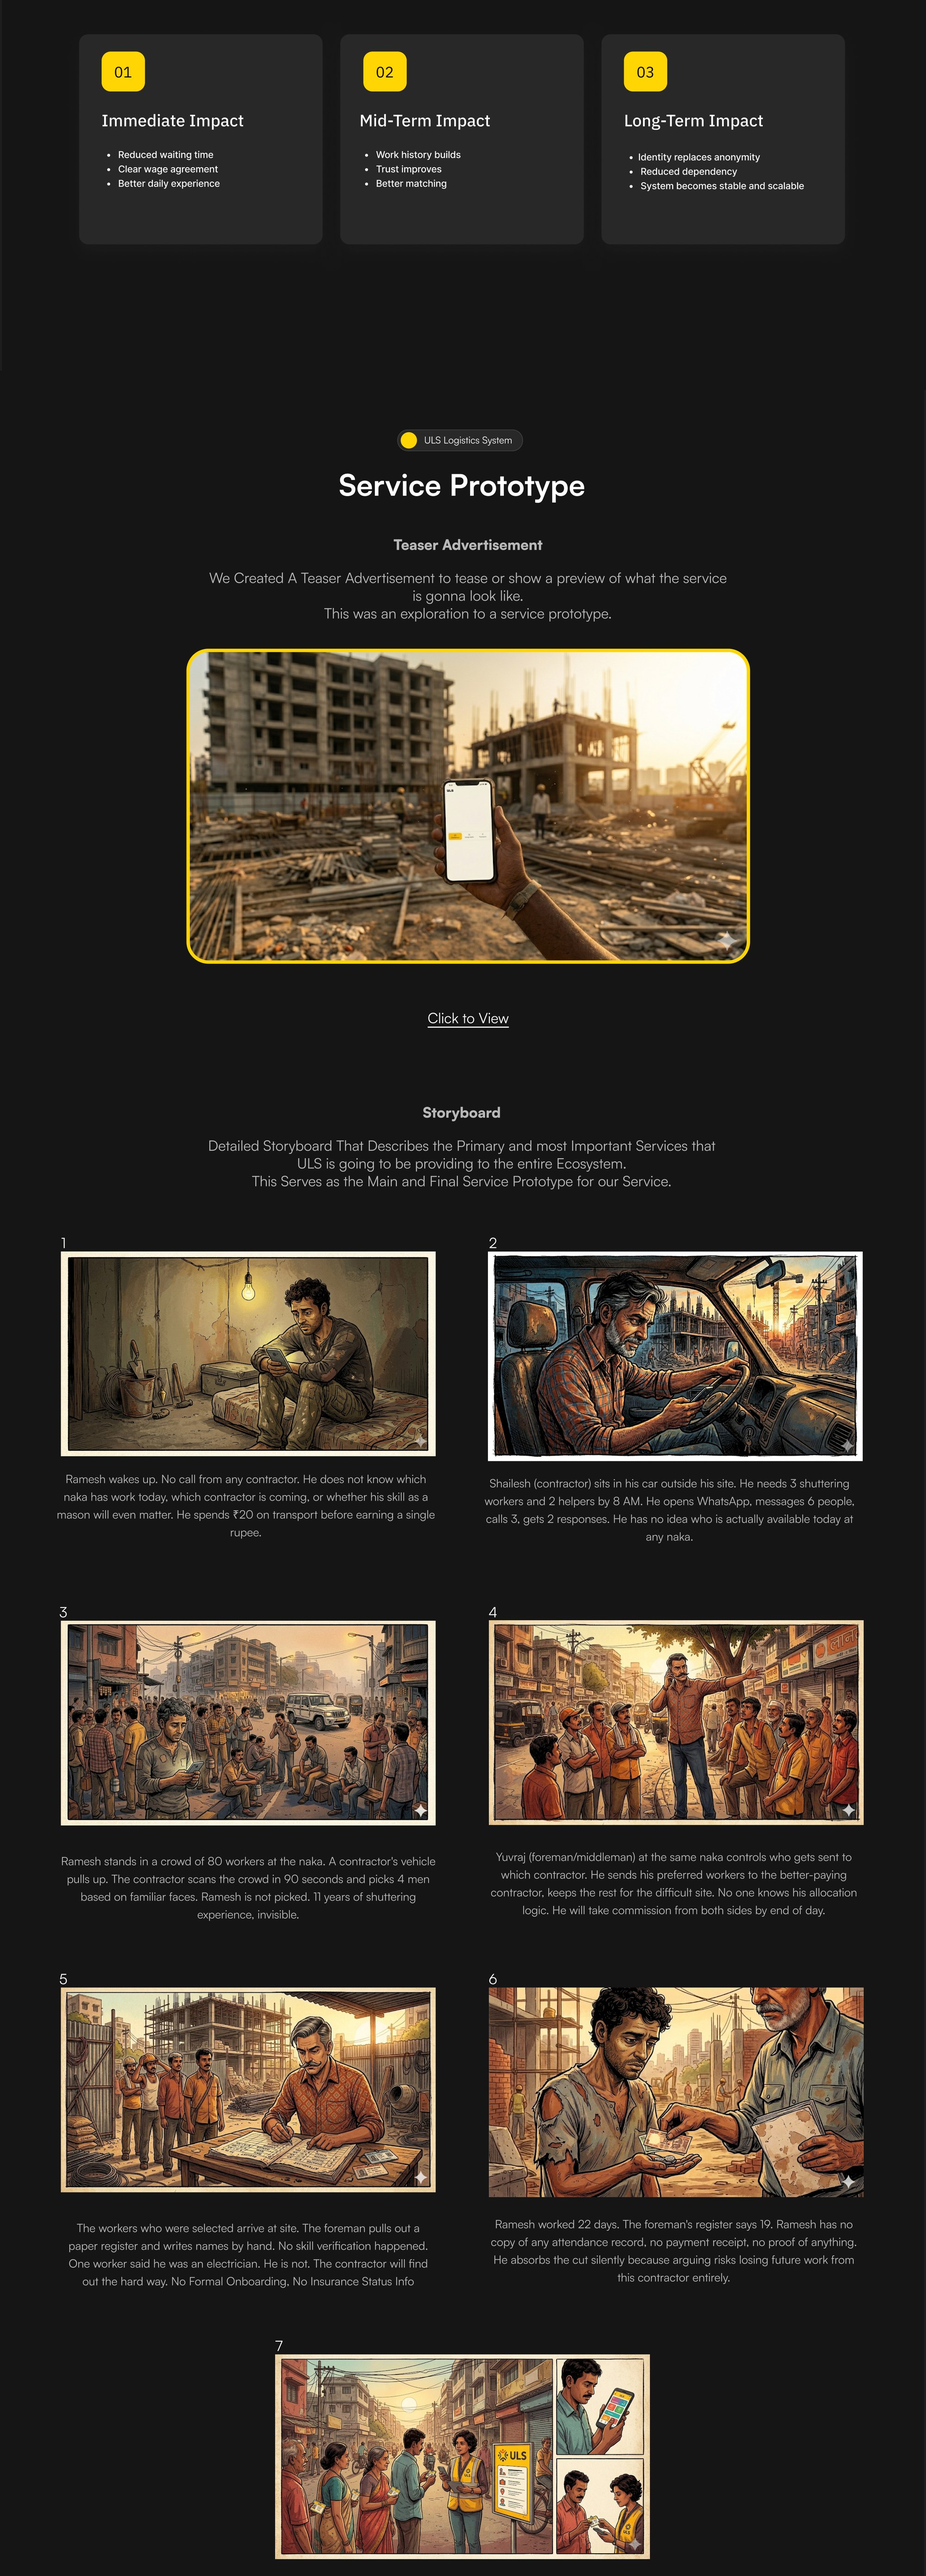
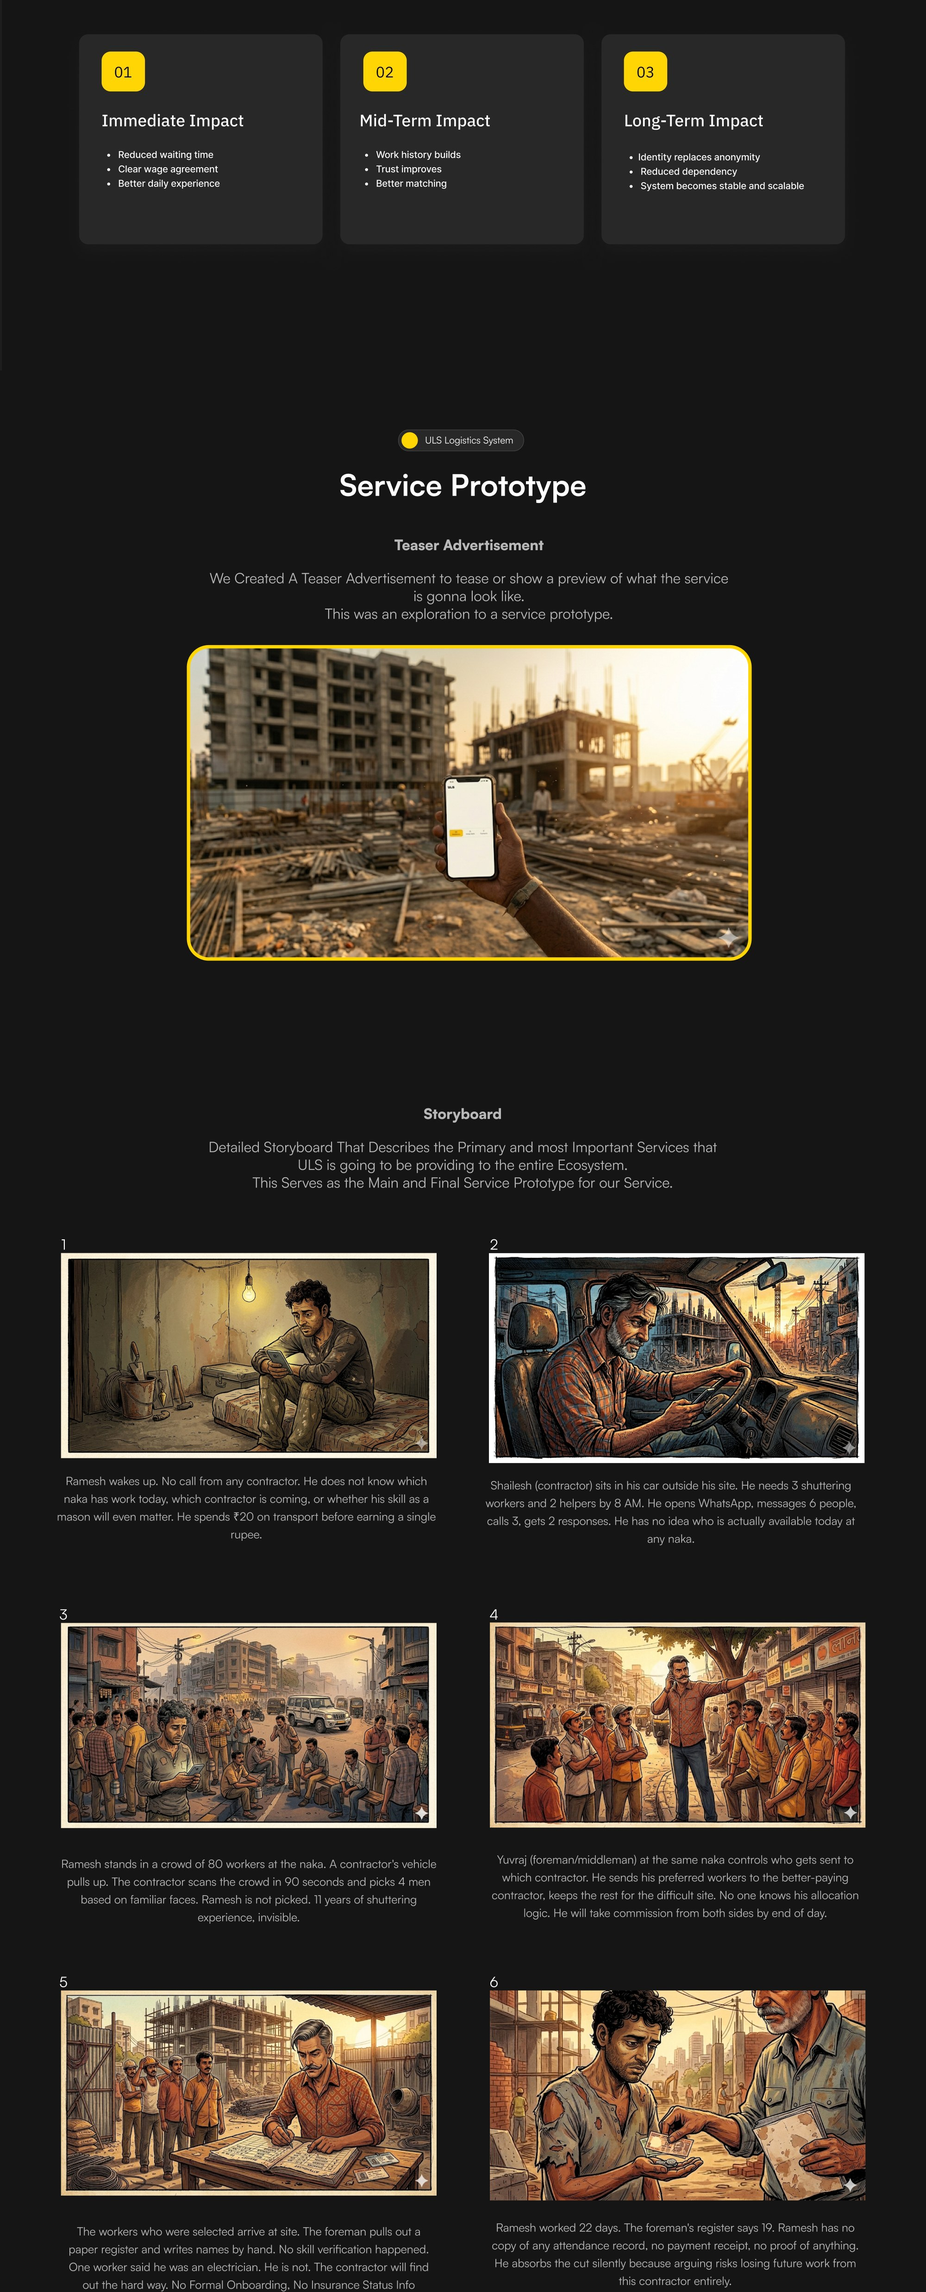
ULS case study: replace the last slide with the revised frame
The Service Prototype slide had a dead "Click to View" link under the
teaser and a stray grey rectangle under Thank You. Spliced in the new
Figma export at the exact point the old slide began (inside 25.jpg,
below the Impact tiles) and re-split into three strips on background
rows, at the folder's own JPEG settings.

diff --git a/work/uls-full.html b/work/uls-full.html
@@ -63,9 +63,9 @@
   <img src="full/uls/22.jpg" width="2000" height="5157" alt="" loading="lazy" decoding="async">
   <img src="full/uls/23.jpg" width="2000" height="5257" alt="" loading="lazy" decoding="async">
   <img src="full/uls/24.jpg" width="2000" height="5160" alt="" loading="lazy" decoding="async">
-  <img src="full/uls/25.jpg" width="2000" height="5561" alt="" loading="lazy" decoding="async">
-  <img src="full/uls/26.jpg" width="2000" height="5217" alt="" loading="lazy" decoding="async">
-  <img src="full/uls/27.jpg" width="2000" height="5291" alt="" loading="lazy" decoding="async">
+  <img src="full/uls/25.jpg" width="2000" height="4949" alt="" loading="lazy" decoding="async">
+  <img src="full/uls/26.jpg" width="2000" height="4937" alt="" loading="lazy" decoding="async">
+  <img src="full/uls/27.jpg" width="2000" height="4944" alt="" loading="lazy" decoding="async">
 </section>
 
 <section class="sec end">

diff --git a/HANDOFF.md b/HANDOFF.md
@@ -634,6 +634,13 @@ Last updated: 2026-09-21
     - **Measured on all four pages** (1440x900, 20px steps, 650ms settle per step for the 0.5s scrub): from full screen to visibly shrinking is now **480-520px (0.53-0.58 screens)**, about one flick. The video still plays while pinned; no errors.
     - The video is 27-31s long and no longer gets a long pinned stretch to be watched in. That is the trade the user chose; if they want a way to watch it through, a play-on-click fullscreen is the better answer than lengthening the pin again.
 
+74. **ULS full case study: the last slide replaced with the revised Figma frame (2026-09-21).** `work/full/uls/25-27.jpg`, `work/uls-full.html` (dimensions only).
+    - **Source:** Figma `2409:3976` "Slide 16:9 - 25" (1928 x 13,525) - Service Prototype: the teaser still, the 20-frame storyboard, Learnings, Thank You. The old version had a **"Click to View" link under the teaser** (dead in an image, and the teaser is already the trailer page's video) and a **lighter-grey empty rectangle under Thank You**.
+    - **The old slide was not one file:** it began partway down `25.jpg` (whose top still holds the previous slide's three Impact tiles) and ran through `26.jpg` and `27.jpg`. The start was found by matching the yellow pill dot in old and new: **y = 800 in the old 25.jpg**, in 385px of plain background (the Impact tiles end at y = 415), background (21,21,21) on both sides, and the first 600px of old and new agree to 1.5/255 mean row luminance.
+    - **Rebuilt:** old `25.jpg[0:800]` + the new export (via `download_assets`, PNG, scale `2000/1928`, exactly 2000 x 14,030) = 14,830px, split back into **three strips of ~4,940px (25, 26, 27)** with each cut on a plain-background row. Saved as progressive JPEG q88 - **quantisation tables verified identical to the rest of the folder**. 3.8MB total, same as before. Originals backed up in the session scratchpad only.
+    - **Verified:** `build_work.py` changed only the three `height` attributes in `uls-full.html` (the trailer page regenerated byte-identical); all 28 images load; **0px gaps** at every join at 1440 and 390 wide; no text under the teaser image; the last 700px are one uniform colour.
+    - **Reusable recipe for replacing any slide in `work/full/`:** export the frame with `download_assets` at `2000 / frameWidth`, find where the old slide starts by matching a distinctive element, splice on a background row, re-split on background rows, save q88 progressive, rerun the builder.
+
 
 ## In progress / not yet confirmed
 
